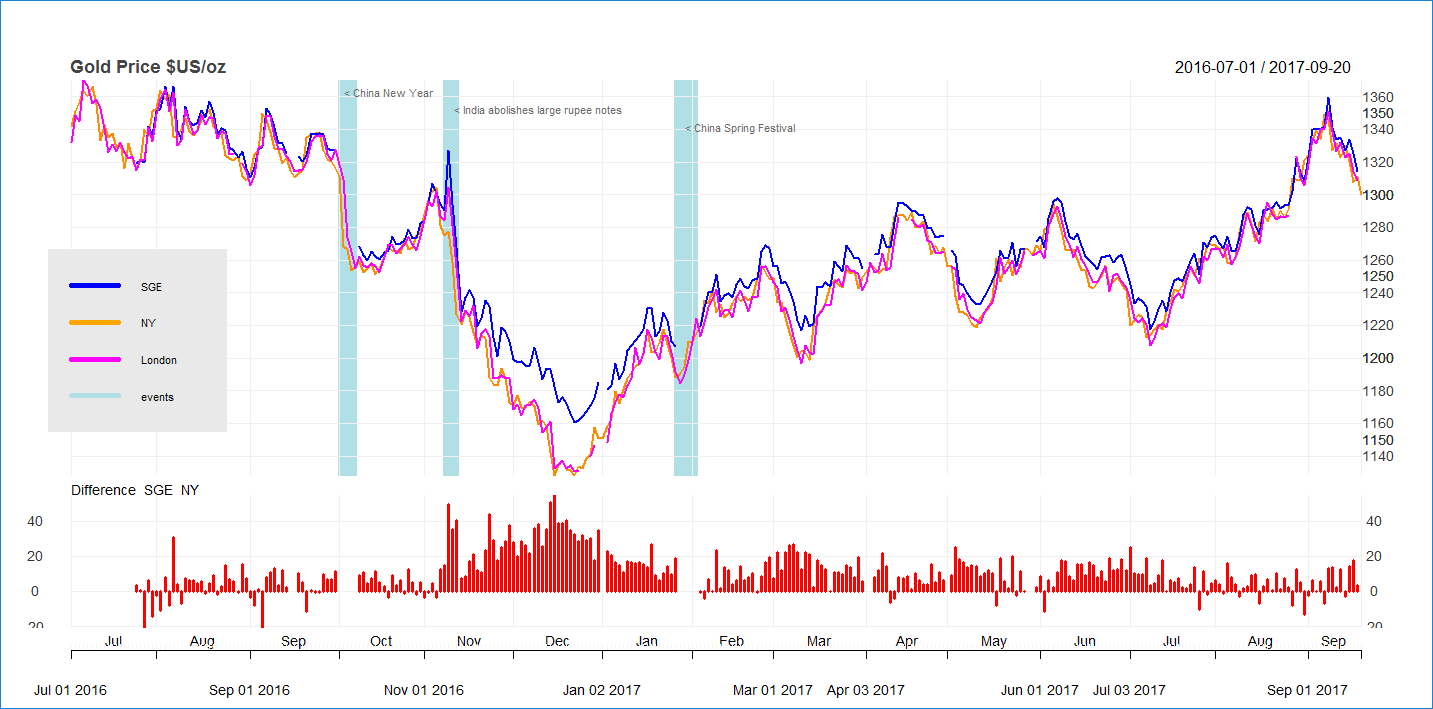
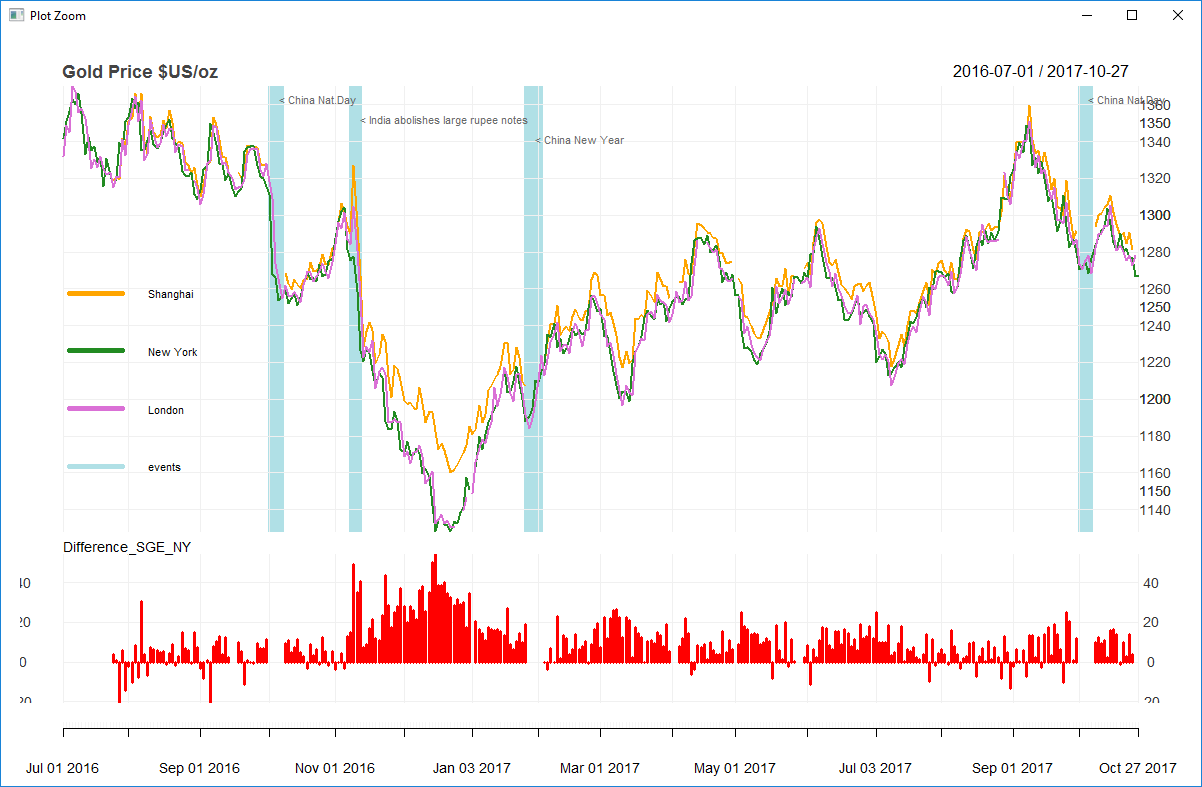
SGE graph updated

diff --git a/tools/gold.html b/tools/gold.html
@@ -51,10 +51,10 @@
 
 
 <p>
-Gold is traded in many exchanges all over the world, but the largest ones setting the price of the metal, are three - New York, London and Shanghai. Below is a graph with gold prices from these exchanges during a year. Shanghai(<a href='http://www.en.sge.com.cn/' target='_blank'>SGE</a>) is trading in physical metal, while New York(<a href='http://www.cmegroup.com/' target='_blank'>Comex</a>) and London(<a href='https://www.lme.com/' target='_blank'>LME</a>) are trading primarily in "paper" gold (ETFs).  The daily price difference is displayed on the bottom in <span style='color:red'>red</span>. Also depicted are three important events (in <span style='color:powderblue'>blue</span>) with probable price impact. 
+Gold is traded in many exchanges all over the world, but the largest ones setting the price of the metal, are three - New York, London and Shanghai. Below is a graph with gold prices from these exchanges during a year. Shanghai(<a href='http://www.en.sge.com.cn/' target='_blank'>SGE</a>) is trading in physical metal, while New York(<a href='http://www.cmegroup.com/' target='_blank'>Comex</a>) and London(<a href='https://www.lme.com/' target='_blank'>LME</a>) are trading primarily in "paper" gold (ETFs).  Daily price difference between Shanghai and New York is displayed on the bottom in <span style='color:red'>red</span>. Also depicted are important events with probable price impact (in <span style='color:powderblue'>blue</span>). 
 </p>
 <p>
-<b>Technical profile</b><br />
+<b>Technical details</b><br />
 The graph is generated by an R application referencing two R libraries - quantmod and rvest. Running time is about one minute.<br />
 Data is obtained via web data extraction from the following pages:
 <ul>
